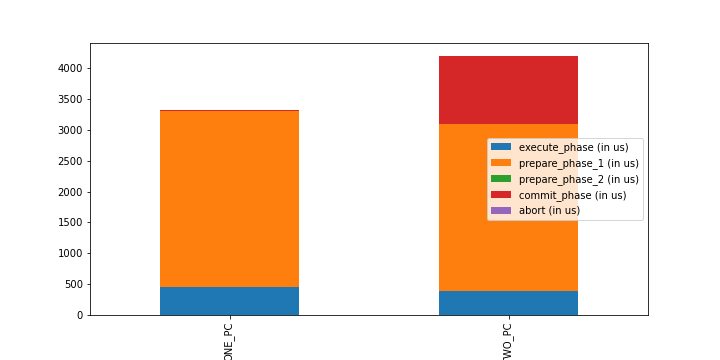
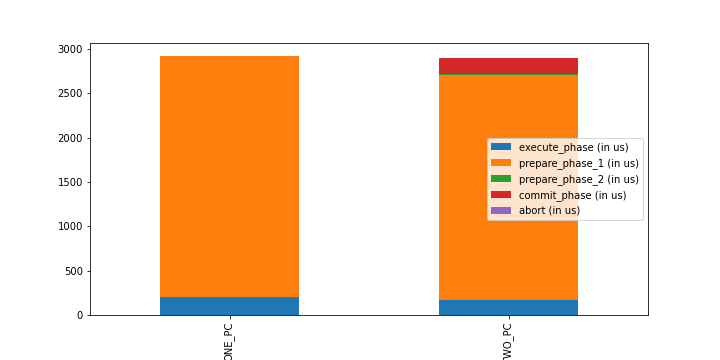
no collect dist

diff --git a/config-ycsb-std.h b/config-ycsb-std.h
@@ -251,4 +251,4 @@ extern TestCases                    g_test_case;
 
 #define COMMIT_ALG     TWO_PC
 
-#define COLLECT_DISTRIBUTED_LATENCY    true
+#define COLLECT_DISTRIBUTED_LATENCY    false

diff --git a/config.h b/config.h
@@ -251,4 +251,4 @@ extern TestCases                    g_test_case;
 
 #define COMMIT_ALG     TWO_PC
 
-#define COLLECT_DISTRIBUTED_LATENCY    true
+#define COLLECT_DISTRIBUTED_LATENCY    false
